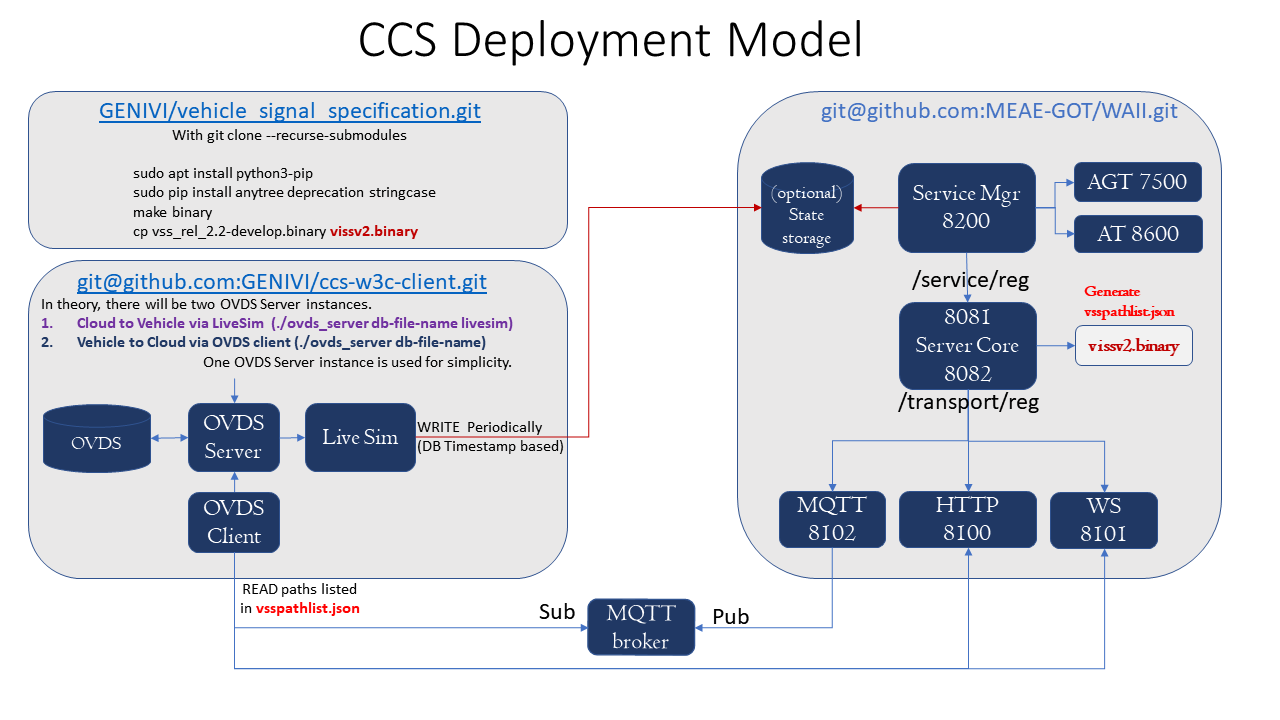
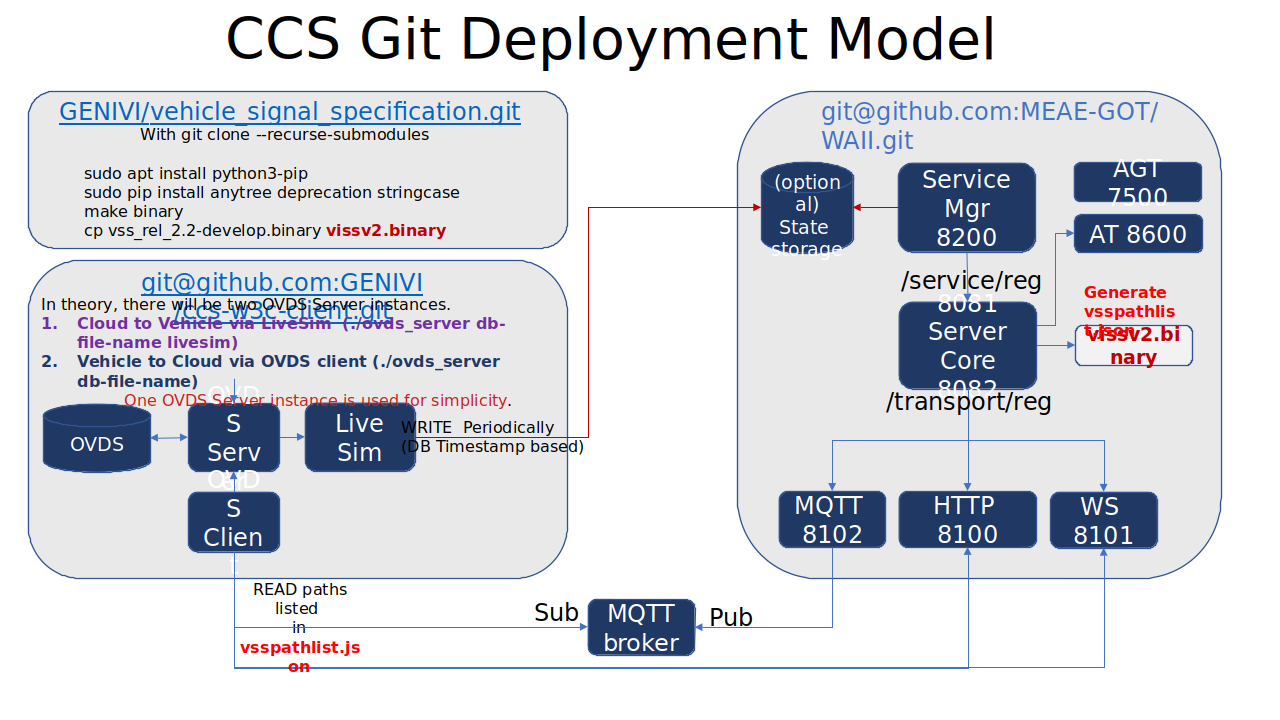
README update.

diff --git a/README.md b/README.md
@@ -4,7 +4,10 @@ The figure below shows an example of this technology stack, where all the compon
 
 ![Technology stack, CCS project](docs/Tech-stack-ccs-project.jpg?raw=true)<br>
 
-![Deployment Model, CCS project](docs/VSS_CCS_Setup.png?raw=true)<br>
+![Git Deployment Model, CCS project](docs/VSS_CCS_Setup.png?raw=true)<br>
+
+Please not that in the Git deployment model figure the same OVDS DB and server are shown representing both a cloud deployment, and a vehicle deployment.
+The Technology stack figure shows them separated, which is how it is used in the CCS project when vehicle data is simulated. In a vehicle deployment the live simulator, the OVDS server and database would be replaced by a "vehicle native" data feeder implementation. 
 
 # OVDS server/db
 The Open Vehicle Data Set database is a database schema that is well suited for storing vehicle data from multiple vehicles. 
